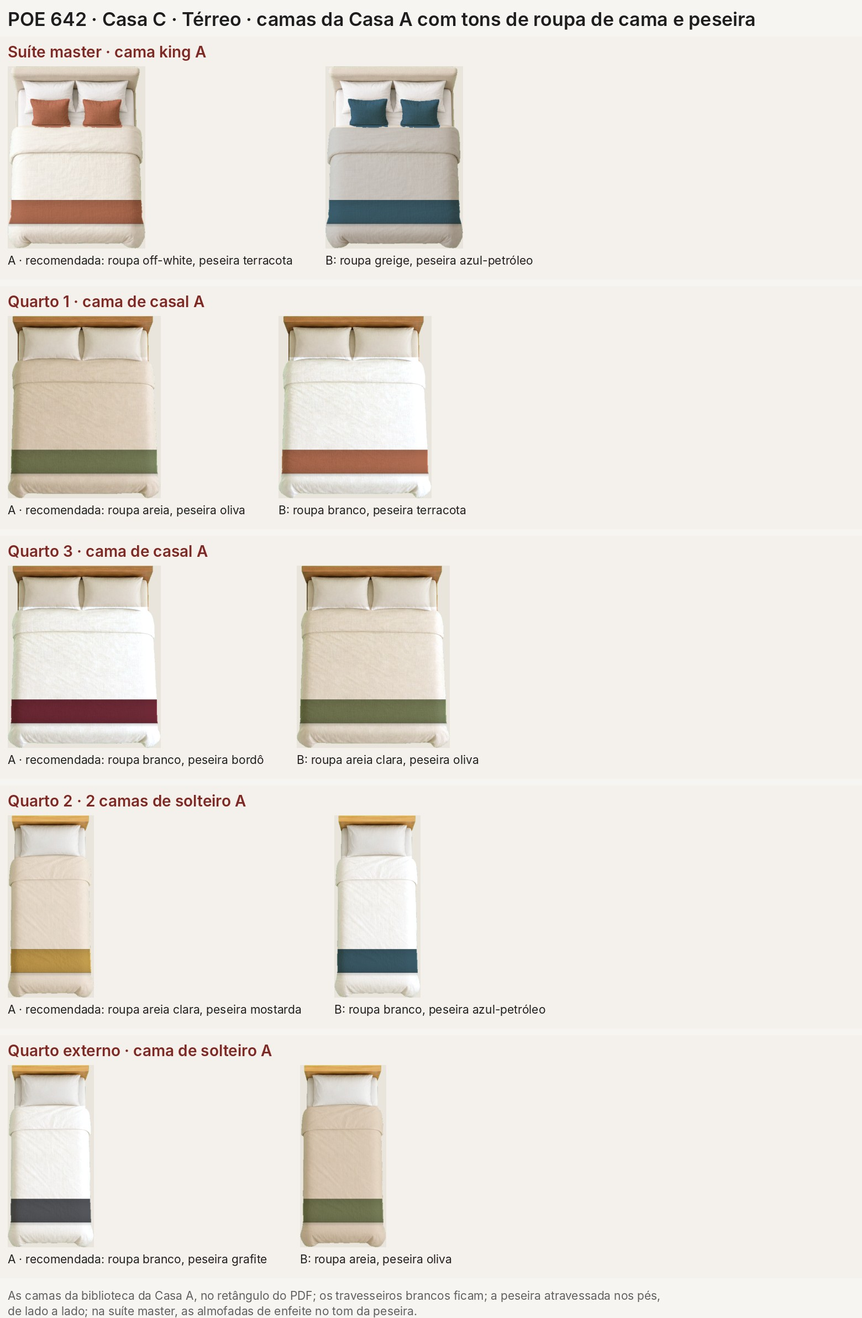
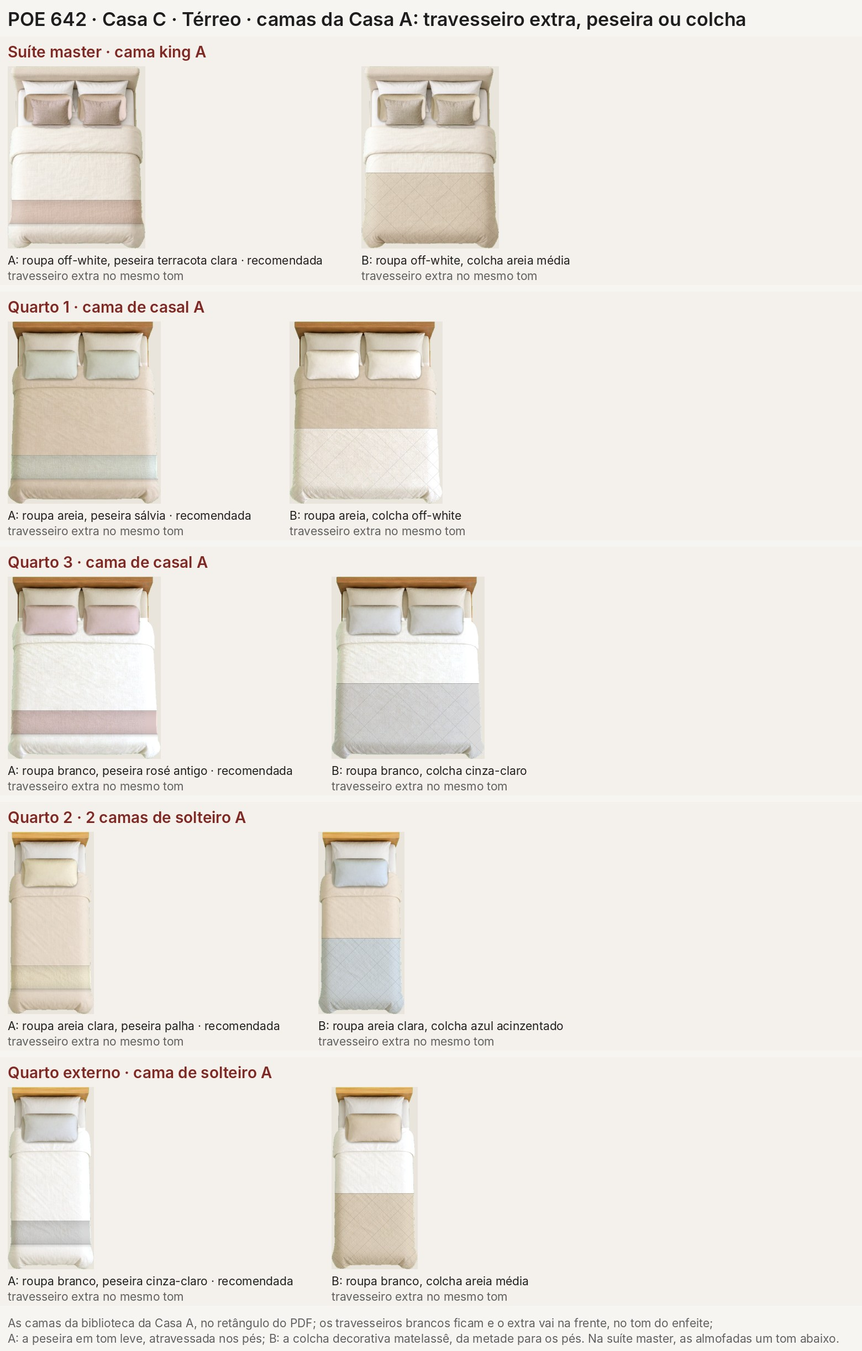
Casa C: camas com travesseiro extra e peseira leve ou colcha decorativa (proposta)
- o travesseiro extra na frente, no tom do enfeite; por quarto, A com a peseira em tom leve e B com a colcha
  decorativa matelassê
- handoff

Claude-Session: https://claude.ai/code/session_01Mm19WX3KoLN1nXMDF5Ay3F

diff --git a/projetos/POE642_HANDOFF_SESSAO_LOCAL.md b/projetos/POE642_HANDOFF_SESSAO_LOCAL.md
@@ -4393,4 +4393,4 @@ Depois (12/11, Casa A, Subsolo: "NA HORA DE GERAR O 4K, PRECISO QUE TRAGA REALIS
 
 Depois (12/11, Casa A, Subsolo, recortes do 12K B: a linha clara sob a parede do hall; "OS X PRECISAM SER EM CINZA COM TRAÇOS MAIS FINOS E DELICADOS. ALÉM DISSO, LIMPE RESÍDUOS DE SUJEIRA"; "DEIXAR O CONTORNO EM VOLTA DOS VASOS PERFEITOS."; "DEIXAR AS PAREDES RETAS"): no `biblioteca_subsolo_casaa_1211.py`, `paredes_retas` (paredes da própria final sem dentes, entalhes e linhas soltas; a aresta contínua), `sujeira` (as manchas junto à parede da academia), os shafts com o miolo branco e o X do PDF em cinza 128 de 0,8 px (desenhado de novo na escala da A3 e do 12K pelo `ampliacao_a3_casaa`) e o piso de verdade em volta das bacias (`sob_peca` com `fonte`, `costura`; na ampliação, `rampa_vasos`). A3 4K e 12K A e B refeitos (a mesma IA 29e35837, corrigida de novo; Topaz 67888e24-f5a8-4f88-a21c-ae0d174feaff); pranchas A e B, PDF da Casa A e book refeitos. Regras novas no `POE642_REGRAS.md` (seção 8: louça trocada sem caixa; paredes retas; seção 9: o X dos shafts em cinza fino, no lugar do preto de 29/10). Detalhes no README dos scripts da Casa A ("Os defeitos do Subsolo de 12/11"). Pendente, com o OK: levar o X cinza fino, as paredes retas e o contorno das louças ao Térreo e ao 1º Pavimento da Casa A e às outras casas.
 
-Depois (12/11, "PODE APLICAR NO TÉRREO E 1º PAVIMENTO DA CASA A"): `POE642_CasaA/scripts/regras_1211_casaa.py` leva as três regras ao Térreo e ao 1º Pavimento: os shafts com o vão claro e o X em cinza 128 de 0,8 px (1 no Térreo, 4 no 1º Pavimento); as paredes retas com o cinza de cada pavimento (53 no Térreo), protegendo o que o PDF desenha e não é parede e o branco de dentro; o ponto claro na beira e a mancha cinza no miolo do vaso do lavabo do Térreo; a borda de parede em volta dos vãos limpa. Finais, pranchas, PDF da Casa A e book refeitos; o 12K A e B dos dois pavimentos sem IA nova (a entrada com o que mudou; Térreo: a corrigida remendada; 1º Pavimento: a saída 09c2bb19 corrigida de novo; Topaz 3272a7a5 e 24b977d2; `montar12k` desenha os shafts no 12K e refaz o vaso do lavabo do Térreo com a final ampliada, de contorno liso, porque a IA o tinha borrado). Antes e depois em `renders/POE642_CasaA_PH_{Terreo,1Pavimento}_1211_*_antes_depois.jpg`. Pendente, com o OK: as mesmas regras nas Casas B a E. Ainda em 12/11 ("Na claraboia não precisa do X, apenas os traços na horizontal"): a claraboia do lavabo do Térreo da Casa A sem o X, só com o tracejado horizontal (`regras_1211_casaa.claraboia`; final, prancha, PDF, book e 12K A e B). Em seguida: a proposta de troca dos objetos do Térreo da Casa A pela biblioteca (só a proposta, para o OK): `POE642_CasaA/renders/POE642_CasaA_PH_Terreo_1211_proposta_biblioteca_{1,2,3}.jpg` (14 ambientes; a planta de hoje ao lado das peças recomendadas; o pacote da biblioteca vem do Drive, `POE642-Casa-A-Biblioteca-Claude-Code.zip`, fora do git). Nada instalado até o OK. Com o "OK": as peças instaladas nos ambientes do Térreo da Casa A (`POE642_CasaA/scripts/biblioteca_terreo_casaa_1211.py`; estar da varanda, sala de estar, estar sob a projeção, mesas redondas, jantar, escritório, gourmet e cozinha, lounge dos brises, piscina, banhos e lavabo); "NÃO ALTERE OS CARROS. DEXE COMO ESTAR." (a garagem como estava); os vasos sanitários marrons; vendo a instalação, "PRECISA DIMINUIR O TAMANHO DA CHURRASQUEIRA PARA CABER NA BANCADA SEM FICAR POR CIMA DA PAREDE." e "AS BANQUETAS FICAM PARCIALMENTE POR DEBAIXO DA BANCADA, NÃO SOBRE ELAS." (aplicados). Final, antes e depois `renders/POE642_CasaA_PH_Terreo_1211b_<ambiente>_antes_depois.jpg`, prancha, PDF da Casa A, book e 12K A e B (sem IA nova: `pecas_12k` no `montar12k`) refeitos; no git, as 41 peças usadas de `biblioteca-objetos/02-terreo`. A confirmar com o usuário: duas cubas inox simples na pia da cozinha (no lugar da cuba dupla), a cuba compacta só a louça, os cooktops de 4 bocas. Depois, ainda em 12/11, vendo a planta (pedidos com recortes, aplicados direto; `POE642_CasaA/scripts/pedidos_terreo_casaa_1211c.py`, `bege_pergolado_casaa_1211.py` e o `biblioteca_terreo_casaa_1211.py`): o sofá da sala menor e girado no contorno do PDF ("DIMUNUIR O TAMANHO DO SOFÁ"; "TALVEZ ROTACIONANDO O SOFÁ, RESOLVA"); o Bege Bahia sob o pergolado no tom e no desenho do deck ("PRECISAMOS MELHORAR O ASPECTO DO MARMORE BEGE BAHIA NESSA REGIÃO"); sem as marquinhas entre os brises ("REMOVA ESSES RISCOS PRETOS ENTE OS BRISES"); a folha da porta do banho varanda nítida ("CORRIJA ESSA PORTA."); a borda do deck e da escada para o Subsolo reta ("CORRIJA ESSE CONTORNO DO DECK E ESCADAS"); o JARDIM no corpo 0,9 dentro da floreira ("DIMINUA A FONTE PARA CABER NO VÃO, SEM ENCOSTAR NAS BORDAS."); o CLARABOIA dentro da claraboia, menor ("ESCREVA O RÓTULO DA CLARABOIA DENTRO DO ESPAÇO DESTINADO PARA CLARABOIA..."); a bancada do lavabo no tom da cuba esculpida ("A BANCADA É NO MESMO TOM DA CUBA ESCULPIDA. CORRIJA"); a bacia Carrara da biblioteca em marrom no lugar do bloco chapado do lavabo ("MELHORE A REPRESENTAÇÃO DESSE VASO"). Em seguida: o SOBE PARA O 1º PAVIMENTO da caracol acima dela ("COLOCA ESSE RÓTULO ACIMA DA ESCADA"); o GARAGEM à direita, no vão entre o carro do meio e o da direita ("COLOCA ESSE RÓTULO MAIS PARA DIREITA OU DIMINUA O TAMANHO DA FONTE"); o guarda-corpo de vidro da borda do deck redesenhado ("CORRIJA ESSE GUARDA CORPO"); a soleira do vão da direita da janela de canto do escritório ("FALTOU A SOLEIRA DE UM DOS LADOS DA JANELA"). Depois: a folha do box do B. MOTORISTA reta, de parede a parede ("DEIXE RETO A FOLHA DO BOX. ESTÁ MUITO TORTO"). E o S/D logo abaixo da seta das quatro escadas ("ADICIONE AS ESCADAS O "S" OU "D" DE SUBIR OU DESCER, LOGO ABAIXO DA SETA"): D nos degraus para o deck e na escada para o Subsolo, S na escada do jardim e na caracol. Depois ("APLIQUE O S E D NO SUBSOLO E 1º PAVIMENTO", `POE642_CasaA/scripts/letras_escadas_casaa_1211.py`): o S sob a seta da escada do Subsolo (final A e manuscrita B, pranchas A e B, A3 4K, 12K A e B) e o D sob as setas da escada em U e da caracol do 1º Pavimento (final, prancha, 12K A e B), sem IA nova (as saídas do Topaz 67888e24 e 24b977d2 baixadas de novo, fora do git). Pendente, com o OK: o S/D nas outras casas. Depois ("Vamos revisar os mobiliários do 1° pavimento da casa A"): a proposta de troca dos objetos do 1º Pavimento da Casa A pela biblioteca (`biblioteca-objetos/03-primeiro-pavimento`, só a proposta, para o OK): `POE642_CasaA/renders/POE642_CasaA_PH_1Pavimento_1211_proposta_biblioteca_{1,2,3}.jpg` (10 blocos: sala íntima, suítes master, 1, 2 e 3, quarto de serviço, banho master, banhos 1 a 3, banho de serviço e closets; a planta de hoje ao lado das peças, com as variantes A/B e as recomendadas marcadas). Nada instalado até o OK. Com o "OK, pode aplicar as recomendadas": as peças instaladas (`POE642_CasaA/scripts/biblioteca_1pav_casaa_1211.py`): sala íntima, suítes master, 1, 2 e 3, quarto de serviço, banho master, banhos 1 a 3 e banho de serviço; as camas da biblioteca (creme) no lugar das de manta bordô; os vasos brancos (Carrara); os closets como estavam. O piso por baixo das peças antigas sai do próprio gerador do vinílico e do travertino (as réguas continuam). Final, antes e depois `renders/POE642_CasaA_PH_1Pavimento_1211b_<ambiente>_antes_depois.jpg`, prancha, PDF da Casa A, book e 12K A e B (sem IA nova) refeitos; no git, a pasta `biblioteca-objetos/03-primeiro-pavimento`. Depois ("Revisão de poltronas e rotação necessária"): a frente de cada poltrona conferida com o símbolo do PDF nos dois pavimentos; giradas a da sala íntima e a da suíte master do 1º Pavimento (a -150°, para a mesa de centro e para o pufe) e a creme da sala de estar do Térreo (a -56°); as outras estavam certas. Finais, 12K A e B, pranchas, PDF da Casa A e book refeitos; antes e depois em `renders/POE642_CasaA_PH_{Terreo,1Pavimento}_1211_poltronas_antes_depois.jpg`. E ("Tem mesa redonda sobre o sofá, em vez de estar ao redor"): as duas mesas laterais da sala íntima, que caíam sobre o sofá da biblioteca (mais fundo que o do PDF), ao lado dele: à esquerda da chaise e por fora do braço. Depois ("Melhore a representação dos criados das suítes"): os criados das suítes master, 1, 2 e 3 no tom da madeira das bancadas (antes sumiam no vinílico), os redondos em círculo, com a sombra de volume e um abajur visto de cima em cada um; final, 12K A e B, prancha, PDF da Casa A e book refeitos; antes e depois em `renders/POE642_CasaA_PH_1Pavimento_1211_criados_antes_depois.jpg`. Depois ("NÃO TEMOS NA BIBLIOTECA OS BANCOS QUE FICAM NA FRENTE DAS CAMAS?"; "GERE UM BANCO NOVO NO HIGGSFIELD"): o banco de pé de cama gerado no Higgsfield (gpt_image_2, 4 variantes; escolhida a d25a4b71: duas almofadas de linho cru numa moldura fina de carvalho) e posto na biblioteca (`03-primeiro-pavimento/suite-master/banco-pe-de-cama.png` e a versão de solteiro em `suite-1/`), no retângulo do PDF aos pés das camas das suítes master, 1 (um em cada cama de solteiro), 2 e 3. E a floreira do banho master ("VAMOS ALTERAR ESSA VEGETAÇÃO MAIS ALTA POR" + a foto): no lugar dos cactos, espadas-de-são-jorge de borda amarela e duas folhagens altas de folha larga na mesma caixa (Higgsfield, 4 variantes; escolhida a 9f219839; `03-primeiro-pavimento/banho-master/floreira-espada-de-sao-jorge-e-folhagem.png`), a caixa no lugar exato da antiga e as folhas sem passar o vidro do banho. Final, 12K A e B, prancha, PDF da Casa A e book refeitos; antes e depois em `renders/POE642_CasaA_PH_1Pavimento_1211_bancos_floreira_antes_depois.jpg`. Depois ("OS CHUVEIROS PRECISAM SER REFEITOS. ESTÃO MUITO APAGADOS"): os chuveiros desenhados vistos de cima (`POE642_CasaA/scripts/chuveiros_planta_casaa_1211.py`; inox médio com chanfro, contorno, crivo e sombra; o redondo do banho de serviço em círculo) e o piso refeito no tom do entorno (o quadrado claro em volta dos chuveiros sumiu). "CORRIGIR O TAPETE NA SUITE 2": o tapete do render (beira dobrada, degraus e, no 12K, retalhos) sai inteiro e entra o da biblioteca no tom de antes, no retângulo do PDF. "CORRIJA AS FOLHAS DE VIDRO PARA SE ENCONTRAREM, CORRIJA O CONTORNO DA FLOREIRA E NÃO DEIXE AS PLANTAS VERDES PASSAREM PELAS JANELAS": a floreira no retângulo do PDF entre as janelas, com as plantas dentro da caixa (`floreira_caixa_casaa_1211.py`, a caixa comprida pelo miolo sem achatar as plantas), e a janela do banho redesenhada pelo PDF (três folhas de correr escalonadas que se encontram nos montantes); depois ("PODE APLICAR UMA SOLEIRA PARA AS JANELAS A DIREITA DA FLOREIRA. O TOM DE PAREDE NÃO PODE SER"), o vão dessa janela com a soleira das portas do 1º Pavimento (Bege Bahia, faces em cinza fino), sem o cinza de parede (`renders/POE642_CasaA_PH_1Pavimento_1211_soleira_janela_floreira_antes_depois.jpg`). E "PODE APLICAR NOS TAPETES DAS SUÍTES 1 E 3": os tapetes das suítes 1 e 3 refeitos inteiros como o da suíte 2 (`renders/POE642_CasaA_PH_1Pavimento_1211_tapetes_suites_1_3_antes_depois.jpg`). Casa B, Subsolo (13/11, "COLOQUE O S ABAIXO DA SETA"): o S sob a seta da escada que sobe para o jardim, como no Subsolo da Casa A (`pedidos_subsolo_casab_1211.letra_sb`; no 12K, A na Inter e B na Kalam, sobre a saída do Topaz ecd1a9e8 baixada de novo); final, 12K A e B, prancha, PDF da Casa B e book refeitos (`POE642_CasaB/renders/POE642_CasaB_PH_Subsolo_1311_letra_escada_antes_depois.jpg`). Depois ("VAMOS REVISAR OS MOBILIÁRIOS DO SUBSOLO DA CASA B"): a proposta de troca pela biblioteca (só a proposta, para o OK): `POE642_CasaB/renders/POE642_CasaB_PH_Subsolo_1311_proposta_biblioteca_{1,2}.jpg` (sauna: banco reto travertino; BH sauna: cuba esculpida travertino, bacia Carrara branca ou marrom, chuveiro quadrado de parede desenhado; ducha do deck: chuveiro quadrado de parede; BH serviço: cuba de serviço no granito, bacia Monte Carlo, chuveiro redondo de parede; academia sem troca, os aparelhos já são os da Casa A). Com o "OK, PODE APLICAR AS RECOMENDADAS": instaladas (`POE642_CasaA/scripts/biblioteca_subsolo_casab_1311.py`): os bancos retos de travertino na sauna, a cuba esculpida no granito e a bacia Carrara branca no BH sauna, a bancada e a cuba de serviço e a bacia Monte Carlo no BH serviço, os chuveiros desenhados (quadrado na ducha do deck e ao lado da sauna, redondo ao lado do BH serviço); no 12K, as peças entram pela final ampliada e nítidas do PNG (`pecas_12k`). Final, 12K A e B, prancha, PDF da Casa B e book refeitos; antes e depois em `POE642_CasaB/renders/POE642_CasaB_PH_Subsolo_1311_<trecho>_antes_depois.jpg`. Depois ("ALINHE OS RÓTULOS", as duas fileiras): os rótulos de cada fileira com o meio na mesma linha (GARAGEM, BH SERVIÇO e DEPÓSITO em y 393; DUCHA, SAUNA, CIRCULAÇÃO, BH SAUNA e ACADEMIA em y 675; a CIRCULAÇÃO de cima, acima do vidro, não cabe na linha do BH SERVIÇO e fica no espaço dela); refeito desde a final de 21fa118 com a biblioteca de novo por cima (`POE642_CasaB/renders/POE642_CasaB_PH_Subsolo_1311_rotulos_alinhados_antes_depois.jpg`). E "CORRIJA O PISO AO INCLUIR NOVO CHUVEIRO": na ducha do deck, o chuveiro antigo não é mais desenhado no passo do deck e o novo entra direto sobre o deck do gerador (as réguas contínuas, sem o remendo copiado do lado) (`POE642_CasaB/renders/POE642_CasaB_PH_Subsolo_1311_deck_chuveiro_antes_depois.jpg`). E ("VOCÊ TROCOU AS BICICLETAS E ESTEIRAS?", "E O SUPINO? QUERO QUE TROQUE, MANTENDO A BOLA"): os aparelhos da academia eram os copiados da final da Casa A de 12/11, ainda os do render; trocados pelos da biblioteca no tamanho da Casa A (2 esteiras `esteira-a`, 1,76 x 0,77 m; 2 bicicletas `bicicleta-b`, 1,23 x 0,51 m; supino `banco-supino`, 1,60 x 2,04 m, espelhado com a barra à direita, como no PDF), cada um no meio do símbolo do PDF da Casa B, o vinílico refeito com as mesmas réguas por baixo dos antigos; a bola, o armário e o rótulo ACADEMIA sem mudar (`biblioteca_subsolo_casab_1311.academia`; `POE642_CasaB/renders/POE642_CasaB_PH_Subsolo_1311_academia_antes_depois.jpg`; final, 12K A e B, prancha, PDF da Casa B e book refeitos). Casa B, Térreo (13/11, "VAMOS REVISAR OS MOBILIÁRIOS DO TÉRREO DA CASA B E REALIZAR AS ALTERAÇÕES FEITAS NA CASA A LISTADAS ACIMA"): a proposta do mobiliário (`POE642_CasaB/renders/POE642_CasaB_PH_Terreo_1311_proposta_biblioteca_{1,2,3}.jpg`; as camas de 12/11 ficam, a pedido, com os tapetes refeitos e o contorno retocado); as regras da Casa A aplicadas (`POE642_CasaA/scripts/regras_terreo_casab_1311.py`): o D sob as setas das 3 escadas, os 2 shafts com o X cinza fino, os 10 chuveiros desenhados em planta, as paredes retas; final, 12K A e B (sem IA nova), prancha, PDF da Casa B e book refeitos. Pendentes: as esquadrias pretas (prévia antes, por causa dos brises de bronze das suítes), os tapetes e o contorno das camas, e as peças geradas no Higgsfield (geladeira, recamier com mais glamour, banco estofado do closet, cortina), à espera da escolha (`POE642_CasaB/renders/POE642_CasaB_PH_Terreo_1311_pecas_higgsfield.jpg`). Depois (13/11, no mesmo `regras_terreo_casab_1311.py`): as esquadrias pretas só no contorno ("FAÇA APENAS O CONTORNO DA ESQUADRIA EM PRETO"), os tapetes das suítes refeitos com o contorno das camas limpo, as peças do Higgsfield escolhidas ("G2, R7, B1, C4"; o recamier trocado pelo R11, na medida do original), o jardim de inverno com um X só e as folhas de baixo encostadas, os rótulos SUÍTE 1/2 e CIRCULAÇÃO/SUÍTE 3 em grade. Depois, as 15 decisões do mobiliário, uma a uma, instaladas com as peças e as convenções da Casa A (`MOBILIARIO_TB`, `mobiliario`): criados com abajur nas 4 suítes, bancada dupla esculpida e bacias Carrara no banho master, cuba esculpida de travertino e bacia Carrara nos banhos 1 a 3, cuba esculpida de poros e bacia marrom no lavabo, bacias marrons e cubas esculpidas no lavatório gourmet, só a louça da cuba e a bacia Monte Carlo nos BH serviço e motorista ("A BANCADA DO BH. MOTORISTA É MARROM TABACO"), cooktops de 4 bocas (o resto do de 5 vira bancada), cubas e tanques Franke, a cuba com misturador e a grelha da gourmet; e a cadeira de escritório nas 3 escrivaninhas ("FALTOU A CADEIRA DE ESCRITORIO NAS ESCRIVANINHAS"), 1/3 por baixo da mesa. Corrigido junto: na final entregue em ca1ed82 os 4 rótulos em grade saíram em dobro (a 2ª rodada lia os desvios já movidos e não tirava o de antes); agora o desvio de partida vem dos dados do `ANTES_COMMIT`. Depois, a 2ª etapa ("PODE FAZER A 2ª ETAPA"): a sala íntima com o conjunto da Casa A (tapete, sofá em L A, mesas laterais redondas, poltrona A; a mesa de centro e a quadrada ficam; o PDF tem uma poltrona só, a proposta dizia 2), as 10 cadeiras oliva no jantar (a mesa e o aparador ficam), as espreguiçadeiras A na prainha e as 5 banquetas B na bancada gourmet (o PDF desenha 4; ficaram as 5 de hoje), com o piso refeito por baixo das peças de antes. Depois ("PÕE UM BANCO ESTOFADO, COMO SE FOSSE UM PUFF NA FRENTE DA POLTRONA"): o retângulo do PDF na frente da poltrona, que o render fez de mesa de madeira, virou o pufe estofado da Casa A. E ("TROQUE O TOM DA MESA DE CENTRO PARA UM TOM QUENTE"): a mesa de centro no caramelo da madeira das bancadas, com o veio. Casa C (13/11, "Vamos para biblioteca da casa C"): a proposta de troca pela biblioteca, só a proposta, para o OK (`POE642_CasaC/renders/POE642_CasaC_PH_Subsolo_1311_proposta_biblioteca_1.jpg` e `POE642_CasaC_PH_Terreo_1311_proposta_biblioteca_{1,2,3}.jpg`): sauna, BH academia e academia no Subsolo; no Térreo, suítes e banhos, sala TV, estar, jantar, varanda gourmet e sala de almoço, escritório, gourmet e cozinha, serviço, quarto externo e lavabos, com as escolhas da Casa A e as decisões da Casa B marcadas; as camas ficam para decidir (a da Casa A, o modelo da Casa B ou como estão); depois ("Adicione a cortina"), a seção das cortinas: a de linho em ondas da Casa B (C4) no lugar das franzidas, em todas as janelas com trilho no PDF. Camas ("Vamos de camas da casa A com variações de tom de roupa de cama e pezeiras"): as da biblioteca da Casa A (king A, casal A, solteiro A), cada quarto com um tom de roupa de cama e uma peseira atravessada nos pés, 2 opções por quarto (`POE642_CasaC/renders/POE642_CasaC_PH_Terreo_1311_proposta_camas.jpg`; a roupa tingida pela mediana, com a trama e a luz do PNG; a peseira com a trama mais marcada, a barra e a sombra curta; na master, as almofadas no tom da peseira). Nada instalado até o OK. E ("ESPREGUIÇADEIRA DE MADEIRA DENTRO DA ÁGUA, DA PRAINHA. NÃO SEI SE FAZ MUITO SENTIDO"): o usuário escolheu gerar no Higgsfield uma espreguiçadeira de resina/polietileno própria para a água (4 variantes, para escolher); até lá a prainha fica com a de madeira. Final, 12K A e B, prancha, PDF da Casa A e book refeitos; antes e depois em `renders/POE642_CasaA_PH_1Pavimento_1211_{chuveiros,tapete_suite_2,floreira_janela}_antes_depois.jpg`. Final, 12K A e B (sem IA nova), prancha, PDF da Casa A e book refeitos; antes e depois (contra a final de 2c1c21d) em `renders/POE642_CasaA_PH_Terreo_1211c_<pedido>_antes_depois.jpg`. Regras novas no `POE642_REGRAS.md` (seção 8).
+Depois (12/11, "PODE APLICAR NO TÉRREO E 1º PAVIMENTO DA CASA A"): `POE642_CasaA/scripts/regras_1211_casaa.py` leva as três regras ao Térreo e ao 1º Pavimento: os shafts com o vão claro e o X em cinza 128 de 0,8 px (1 no Térreo, 4 no 1º Pavimento); as paredes retas com o cinza de cada pavimento (53 no Térreo), protegendo o que o PDF desenha e não é parede e o branco de dentro; o ponto claro na beira e a mancha cinza no miolo do vaso do lavabo do Térreo; a borda de parede em volta dos vãos limpa. Finais, pranchas, PDF da Casa A e book refeitos; o 12K A e B dos dois pavimentos sem IA nova (a entrada com o que mudou; Térreo: a corrigida remendada; 1º Pavimento: a saída 09c2bb19 corrigida de novo; Topaz 3272a7a5 e 24b977d2; `montar12k` desenha os shafts no 12K e refaz o vaso do lavabo do Térreo com a final ampliada, de contorno liso, porque a IA o tinha borrado). Antes e depois em `renders/POE642_CasaA_PH_{Terreo,1Pavimento}_1211_*_antes_depois.jpg`. Pendente, com o OK: as mesmas regras nas Casas B a E. Ainda em 12/11 ("Na claraboia não precisa do X, apenas os traços na horizontal"): a claraboia do lavabo do Térreo da Casa A sem o X, só com o tracejado horizontal (`regras_1211_casaa.claraboia`; final, prancha, PDF, book e 12K A e B). Em seguida: a proposta de troca dos objetos do Térreo da Casa A pela biblioteca (só a proposta, para o OK): `POE642_CasaA/renders/POE642_CasaA_PH_Terreo_1211_proposta_biblioteca_{1,2,3}.jpg` (14 ambientes; a planta de hoje ao lado das peças recomendadas; o pacote da biblioteca vem do Drive, `POE642-Casa-A-Biblioteca-Claude-Code.zip`, fora do git). Nada instalado até o OK. Com o "OK": as peças instaladas nos ambientes do Térreo da Casa A (`POE642_CasaA/scripts/biblioteca_terreo_casaa_1211.py`; estar da varanda, sala de estar, estar sob a projeção, mesas redondas, jantar, escritório, gourmet e cozinha, lounge dos brises, piscina, banhos e lavabo); "NÃO ALTERE OS CARROS. DEXE COMO ESTAR." (a garagem como estava); os vasos sanitários marrons; vendo a instalação, "PRECISA DIMINUIR O TAMANHO DA CHURRASQUEIRA PARA CABER NA BANCADA SEM FICAR POR CIMA DA PAREDE." e "AS BANQUETAS FICAM PARCIALMENTE POR DEBAIXO DA BANCADA, NÃO SOBRE ELAS." (aplicados). Final, antes e depois `renders/POE642_CasaA_PH_Terreo_1211b_<ambiente>_antes_depois.jpg`, prancha, PDF da Casa A, book e 12K A e B (sem IA nova: `pecas_12k` no `montar12k`) refeitos; no git, as 41 peças usadas de `biblioteca-objetos/02-terreo`. A confirmar com o usuário: duas cubas inox simples na pia da cozinha (no lugar da cuba dupla), a cuba compacta só a louça, os cooktops de 4 bocas. Depois, ainda em 12/11, vendo a planta (pedidos com recortes, aplicados direto; `POE642_CasaA/scripts/pedidos_terreo_casaa_1211c.py`, `bege_pergolado_casaa_1211.py` e o `biblioteca_terreo_casaa_1211.py`): o sofá da sala menor e girado no contorno do PDF ("DIMUNUIR O TAMANHO DO SOFÁ"; "TALVEZ ROTACIONANDO O SOFÁ, RESOLVA"); o Bege Bahia sob o pergolado no tom e no desenho do deck ("PRECISAMOS MELHORAR O ASPECTO DO MARMORE BEGE BAHIA NESSA REGIÃO"); sem as marquinhas entre os brises ("REMOVA ESSES RISCOS PRETOS ENTE OS BRISES"); a folha da porta do banho varanda nítida ("CORRIJA ESSA PORTA."); a borda do deck e da escada para o Subsolo reta ("CORRIJA ESSE CONTORNO DO DECK E ESCADAS"); o JARDIM no corpo 0,9 dentro da floreira ("DIMINUA A FONTE PARA CABER NO VÃO, SEM ENCOSTAR NAS BORDAS."); o CLARABOIA dentro da claraboia, menor ("ESCREVA O RÓTULO DA CLARABOIA DENTRO DO ESPAÇO DESTINADO PARA CLARABOIA..."); a bancada do lavabo no tom da cuba esculpida ("A BANCADA É NO MESMO TOM DA CUBA ESCULPIDA. CORRIJA"); a bacia Carrara da biblioteca em marrom no lugar do bloco chapado do lavabo ("MELHORE A REPRESENTAÇÃO DESSE VASO"). Em seguida: o SOBE PARA O 1º PAVIMENTO da caracol acima dela ("COLOCA ESSE RÓTULO ACIMA DA ESCADA"); o GARAGEM à direita, no vão entre o carro do meio e o da direita ("COLOCA ESSE RÓTULO MAIS PARA DIREITA OU DIMINUA O TAMANHO DA FONTE"); o guarda-corpo de vidro da borda do deck redesenhado ("CORRIJA ESSE GUARDA CORPO"); a soleira do vão da direita da janela de canto do escritório ("FALTOU A SOLEIRA DE UM DOS LADOS DA JANELA"). Depois: a folha do box do B. MOTORISTA reta, de parede a parede ("DEIXE RETO A FOLHA DO BOX. ESTÁ MUITO TORTO"). E o S/D logo abaixo da seta das quatro escadas ("ADICIONE AS ESCADAS O "S" OU "D" DE SUBIR OU DESCER, LOGO ABAIXO DA SETA"): D nos degraus para o deck e na escada para o Subsolo, S na escada do jardim e na caracol. Depois ("APLIQUE O S E D NO SUBSOLO E 1º PAVIMENTO", `POE642_CasaA/scripts/letras_escadas_casaa_1211.py`): o S sob a seta da escada do Subsolo (final A e manuscrita B, pranchas A e B, A3 4K, 12K A e B) e o D sob as setas da escada em U e da caracol do 1º Pavimento (final, prancha, 12K A e B), sem IA nova (as saídas do Topaz 67888e24 e 24b977d2 baixadas de novo, fora do git). Pendente, com o OK: o S/D nas outras casas. Depois ("Vamos revisar os mobiliários do 1° pavimento da casa A"): a proposta de troca dos objetos do 1º Pavimento da Casa A pela biblioteca (`biblioteca-objetos/03-primeiro-pavimento`, só a proposta, para o OK): `POE642_CasaA/renders/POE642_CasaA_PH_1Pavimento_1211_proposta_biblioteca_{1,2,3}.jpg` (10 blocos: sala íntima, suítes master, 1, 2 e 3, quarto de serviço, banho master, banhos 1 a 3, banho de serviço e closets; a planta de hoje ao lado das peças, com as variantes A/B e as recomendadas marcadas). Nada instalado até o OK. Com o "OK, pode aplicar as recomendadas": as peças instaladas (`POE642_CasaA/scripts/biblioteca_1pav_casaa_1211.py`): sala íntima, suítes master, 1, 2 e 3, quarto de serviço, banho master, banhos 1 a 3 e banho de serviço; as camas da biblioteca (creme) no lugar das de manta bordô; os vasos brancos (Carrara); os closets como estavam. O piso por baixo das peças antigas sai do próprio gerador do vinílico e do travertino (as réguas continuam). Final, antes e depois `renders/POE642_CasaA_PH_1Pavimento_1211b_<ambiente>_antes_depois.jpg`, prancha, PDF da Casa A, book e 12K A e B (sem IA nova) refeitos; no git, a pasta `biblioteca-objetos/03-primeiro-pavimento`. Depois ("Revisão de poltronas e rotação necessária"): a frente de cada poltrona conferida com o símbolo do PDF nos dois pavimentos; giradas a da sala íntima e a da suíte master do 1º Pavimento (a -150°, para a mesa de centro e para o pufe) e a creme da sala de estar do Térreo (a -56°); as outras estavam certas. Finais, 12K A e B, pranchas, PDF da Casa A e book refeitos; antes e depois em `renders/POE642_CasaA_PH_{Terreo,1Pavimento}_1211_poltronas_antes_depois.jpg`. E ("Tem mesa redonda sobre o sofá, em vez de estar ao redor"): as duas mesas laterais da sala íntima, que caíam sobre o sofá da biblioteca (mais fundo que o do PDF), ao lado dele: à esquerda da chaise e por fora do braço. Depois ("Melhore a representação dos criados das suítes"): os criados das suítes master, 1, 2 e 3 no tom da madeira das bancadas (antes sumiam no vinílico), os redondos em círculo, com a sombra de volume e um abajur visto de cima em cada um; final, 12K A e B, prancha, PDF da Casa A e book refeitos; antes e depois em `renders/POE642_CasaA_PH_1Pavimento_1211_criados_antes_depois.jpg`. Depois ("NÃO TEMOS NA BIBLIOTECA OS BANCOS QUE FICAM NA FRENTE DAS CAMAS?"; "GERE UM BANCO NOVO NO HIGGSFIELD"): o banco de pé de cama gerado no Higgsfield (gpt_image_2, 4 variantes; escolhida a d25a4b71: duas almofadas de linho cru numa moldura fina de carvalho) e posto na biblioteca (`03-primeiro-pavimento/suite-master/banco-pe-de-cama.png` e a versão de solteiro em `suite-1/`), no retângulo do PDF aos pés das camas das suítes master, 1 (um em cada cama de solteiro), 2 e 3. E a floreira do banho master ("VAMOS ALTERAR ESSA VEGETAÇÃO MAIS ALTA POR" + a foto): no lugar dos cactos, espadas-de-são-jorge de borda amarela e duas folhagens altas de folha larga na mesma caixa (Higgsfield, 4 variantes; escolhida a 9f219839; `03-primeiro-pavimento/banho-master/floreira-espada-de-sao-jorge-e-folhagem.png`), a caixa no lugar exato da antiga e as folhas sem passar o vidro do banho. Final, 12K A e B, prancha, PDF da Casa A e book refeitos; antes e depois em `renders/POE642_CasaA_PH_1Pavimento_1211_bancos_floreira_antes_depois.jpg`. Depois ("OS CHUVEIROS PRECISAM SER REFEITOS. ESTÃO MUITO APAGADOS"): os chuveiros desenhados vistos de cima (`POE642_CasaA/scripts/chuveiros_planta_casaa_1211.py`; inox médio com chanfro, contorno, crivo e sombra; o redondo do banho de serviço em círculo) e o piso refeito no tom do entorno (o quadrado claro em volta dos chuveiros sumiu). "CORRIGIR O TAPETE NA SUITE 2": o tapete do render (beira dobrada, degraus e, no 12K, retalhos) sai inteiro e entra o da biblioteca no tom de antes, no retângulo do PDF. "CORRIJA AS FOLHAS DE VIDRO PARA SE ENCONTRAREM, CORRIJA O CONTORNO DA FLOREIRA E NÃO DEIXE AS PLANTAS VERDES PASSAREM PELAS JANELAS": a floreira no retângulo do PDF entre as janelas, com as plantas dentro da caixa (`floreira_caixa_casaa_1211.py`, a caixa comprida pelo miolo sem achatar as plantas), e a janela do banho redesenhada pelo PDF (três folhas de correr escalonadas que se encontram nos montantes); depois ("PODE APLICAR UMA SOLEIRA PARA AS JANELAS A DIREITA DA FLOREIRA. O TOM DE PAREDE NÃO PODE SER"), o vão dessa janela com a soleira das portas do 1º Pavimento (Bege Bahia, faces em cinza fino), sem o cinza de parede (`renders/POE642_CasaA_PH_1Pavimento_1211_soleira_janela_floreira_antes_depois.jpg`). E "PODE APLICAR NOS TAPETES DAS SUÍTES 1 E 3": os tapetes das suítes 1 e 3 refeitos inteiros como o da suíte 2 (`renders/POE642_CasaA_PH_1Pavimento_1211_tapetes_suites_1_3_antes_depois.jpg`). Casa B, Subsolo (13/11, "COLOQUE O S ABAIXO DA SETA"): o S sob a seta da escada que sobe para o jardim, como no Subsolo da Casa A (`pedidos_subsolo_casab_1211.letra_sb`; no 12K, A na Inter e B na Kalam, sobre a saída do Topaz ecd1a9e8 baixada de novo); final, 12K A e B, prancha, PDF da Casa B e book refeitos (`POE642_CasaB/renders/POE642_CasaB_PH_Subsolo_1311_letra_escada_antes_depois.jpg`). Depois ("VAMOS REVISAR OS MOBILIÁRIOS DO SUBSOLO DA CASA B"): a proposta de troca pela biblioteca (só a proposta, para o OK): `POE642_CasaB/renders/POE642_CasaB_PH_Subsolo_1311_proposta_biblioteca_{1,2}.jpg` (sauna: banco reto travertino; BH sauna: cuba esculpida travertino, bacia Carrara branca ou marrom, chuveiro quadrado de parede desenhado; ducha do deck: chuveiro quadrado de parede; BH serviço: cuba de serviço no granito, bacia Monte Carlo, chuveiro redondo de parede; academia sem troca, os aparelhos já são os da Casa A). Com o "OK, PODE APLICAR AS RECOMENDADAS": instaladas (`POE642_CasaA/scripts/biblioteca_subsolo_casab_1311.py`): os bancos retos de travertino na sauna, a cuba esculpida no granito e a bacia Carrara branca no BH sauna, a bancada e a cuba de serviço e a bacia Monte Carlo no BH serviço, os chuveiros desenhados (quadrado na ducha do deck e ao lado da sauna, redondo ao lado do BH serviço); no 12K, as peças entram pela final ampliada e nítidas do PNG (`pecas_12k`). Final, 12K A e B, prancha, PDF da Casa B e book refeitos; antes e depois em `POE642_CasaB/renders/POE642_CasaB_PH_Subsolo_1311_<trecho>_antes_depois.jpg`. Depois ("ALINHE OS RÓTULOS", as duas fileiras): os rótulos de cada fileira com o meio na mesma linha (GARAGEM, BH SERVIÇO e DEPÓSITO em y 393; DUCHA, SAUNA, CIRCULAÇÃO, BH SAUNA e ACADEMIA em y 675; a CIRCULAÇÃO de cima, acima do vidro, não cabe na linha do BH SERVIÇO e fica no espaço dela); refeito desde a final de 21fa118 com a biblioteca de novo por cima (`POE642_CasaB/renders/POE642_CasaB_PH_Subsolo_1311_rotulos_alinhados_antes_depois.jpg`). E "CORRIJA O PISO AO INCLUIR NOVO CHUVEIRO": na ducha do deck, o chuveiro antigo não é mais desenhado no passo do deck e o novo entra direto sobre o deck do gerador (as réguas contínuas, sem o remendo copiado do lado) (`POE642_CasaB/renders/POE642_CasaB_PH_Subsolo_1311_deck_chuveiro_antes_depois.jpg`). E ("VOCÊ TROCOU AS BICICLETAS E ESTEIRAS?", "E O SUPINO? QUERO QUE TROQUE, MANTENDO A BOLA"): os aparelhos da academia eram os copiados da final da Casa A de 12/11, ainda os do render; trocados pelos da biblioteca no tamanho da Casa A (2 esteiras `esteira-a`, 1,76 x 0,77 m; 2 bicicletas `bicicleta-b`, 1,23 x 0,51 m; supino `banco-supino`, 1,60 x 2,04 m, espelhado com a barra à direita, como no PDF), cada um no meio do símbolo do PDF da Casa B, o vinílico refeito com as mesmas réguas por baixo dos antigos; a bola, o armário e o rótulo ACADEMIA sem mudar (`biblioteca_subsolo_casab_1311.academia`; `POE642_CasaB/renders/POE642_CasaB_PH_Subsolo_1311_academia_antes_depois.jpg`; final, 12K A e B, prancha, PDF da Casa B e book refeitos). Casa B, Térreo (13/11, "VAMOS REVISAR OS MOBILIÁRIOS DO TÉRREO DA CASA B E REALIZAR AS ALTERAÇÕES FEITAS NA CASA A LISTADAS ACIMA"): a proposta do mobiliário (`POE642_CasaB/renders/POE642_CasaB_PH_Terreo_1311_proposta_biblioteca_{1,2,3}.jpg`; as camas de 12/11 ficam, a pedido, com os tapetes refeitos e o contorno retocado); as regras da Casa A aplicadas (`POE642_CasaA/scripts/regras_terreo_casab_1311.py`): o D sob as setas das 3 escadas, os 2 shafts com o X cinza fino, os 10 chuveiros desenhados em planta, as paredes retas; final, 12K A e B (sem IA nova), prancha, PDF da Casa B e book refeitos. Pendentes: as esquadrias pretas (prévia antes, por causa dos brises de bronze das suítes), os tapetes e o contorno das camas, e as peças geradas no Higgsfield (geladeira, recamier com mais glamour, banco estofado do closet, cortina), à espera da escolha (`POE642_CasaB/renders/POE642_CasaB_PH_Terreo_1311_pecas_higgsfield.jpg`). Depois (13/11, no mesmo `regras_terreo_casab_1311.py`): as esquadrias pretas só no contorno ("FAÇA APENAS O CONTORNO DA ESQUADRIA EM PRETO"), os tapetes das suítes refeitos com o contorno das camas limpo, as peças do Higgsfield escolhidas ("G2, R7, B1, C4"; o recamier trocado pelo R11, na medida do original), o jardim de inverno com um X só e as folhas de baixo encostadas, os rótulos SUÍTE 1/2 e CIRCULAÇÃO/SUÍTE 3 em grade. Depois, as 15 decisões do mobiliário, uma a uma, instaladas com as peças e as convenções da Casa A (`MOBILIARIO_TB`, `mobiliario`): criados com abajur nas 4 suítes, bancada dupla esculpida e bacias Carrara no banho master, cuba esculpida de travertino e bacia Carrara nos banhos 1 a 3, cuba esculpida de poros e bacia marrom no lavabo, bacias marrons e cubas esculpidas no lavatório gourmet, só a louça da cuba e a bacia Monte Carlo nos BH serviço e motorista ("A BANCADA DO BH. MOTORISTA É MARROM TABACO"), cooktops de 4 bocas (o resto do de 5 vira bancada), cubas e tanques Franke, a cuba com misturador e a grelha da gourmet; e a cadeira de escritório nas 3 escrivaninhas ("FALTOU A CADEIRA DE ESCRITORIO NAS ESCRIVANINHAS"), 1/3 por baixo da mesa. Corrigido junto: na final entregue em ca1ed82 os 4 rótulos em grade saíram em dobro (a 2ª rodada lia os desvios já movidos e não tirava o de antes); agora o desvio de partida vem dos dados do `ANTES_COMMIT`. Depois, a 2ª etapa ("PODE FAZER A 2ª ETAPA"): a sala íntima com o conjunto da Casa A (tapete, sofá em L A, mesas laterais redondas, poltrona A; a mesa de centro e a quadrada ficam; o PDF tem uma poltrona só, a proposta dizia 2), as 10 cadeiras oliva no jantar (a mesa e o aparador ficam), as espreguiçadeiras A na prainha e as 5 banquetas B na bancada gourmet (o PDF desenha 4; ficaram as 5 de hoje), com o piso refeito por baixo das peças de antes. Depois ("PÕE UM BANCO ESTOFADO, COMO SE FOSSE UM PUFF NA FRENTE DA POLTRONA"): o retângulo do PDF na frente da poltrona, que o render fez de mesa de madeira, virou o pufe estofado da Casa A. E ("TROQUE O TOM DA MESA DE CENTRO PARA UM TOM QUENTE"): a mesa de centro no caramelo da madeira das bancadas, com o veio. Casa C (13/11, "Vamos para biblioteca da casa C"): a proposta de troca pela biblioteca, só a proposta, para o OK (`POE642_CasaC/renders/POE642_CasaC_PH_Subsolo_1311_proposta_biblioteca_1.jpg` e `POE642_CasaC_PH_Terreo_1311_proposta_biblioteca_{1,2,3}.jpg`): sauna, BH academia e academia no Subsolo; no Térreo, suítes e banhos, sala TV, estar, jantar, varanda gourmet e sala de almoço, escritório, gourmet e cozinha, serviço, quarto externo e lavabos, com as escolhas da Casa A e as decisões da Casa B marcadas; as camas ficam para decidir (a da Casa A, o modelo da Casa B ou como estão); depois ("Adicione a cortina"), a seção das cortinas: a de linho em ondas da Casa B (C4) no lugar das franzidas, em todas as janelas com trilho no PDF. Camas ("Vamos de camas da casa A com variações de tom de roupa de cama e pezeiras"): as da biblioteca da Casa A (king A, casal A, solteiro A), cada quarto com um tom de roupa de cama e uma peseira atravessada nos pés, 2 opções por quarto (`POE642_CasaC/renders/POE642_CasaC_PH_Terreo_1311_proposta_camas.jpg`; a roupa tingida pela mediana, com a trama e a luz do PNG; a peseira com a trama mais marcada, a barra e a sombra curta; na master, as almofadas no tom da peseira); depois ("Acrescenta travesseiro extra"; "Mantém tom leve na peneira ou colcha decorativa"): o travesseiro extra na frente (o limpo da cama de casal A, no tom do enfeite) e, por quarto, A com a peseira em tom leve ou B com a colcha decorativa matelassê da metade para os pés. Nada instalado até o OK. E ("ESPREGUIÇADEIRA DE MADEIRA DENTRO DA ÁGUA, DA PRAINHA. NÃO SEI SE FAZ MUITO SENTIDO"): o usuário escolheu gerar no Higgsfield uma espreguiçadeira de resina/polietileno própria para a água (4 variantes, para escolher); até lá a prainha fica com a de madeira. Final, 12K A e B, prancha, PDF da Casa A e book refeitos; antes e depois em `renders/POE642_CasaA_PH_1Pavimento_1211_{chuveiros,tapete_suite_2,floreira_janela}_antes_depois.jpg`. Final, 12K A e B (sem IA nova), prancha, PDF da Casa A e book refeitos; antes e depois (contra a final de 2c1c21d) em `renders/POE642_CasaA_PH_Terreo_1211c_<pedido>_antes_depois.jpg`. Regras novas no `POE642_REGRAS.md` (seção 8).
